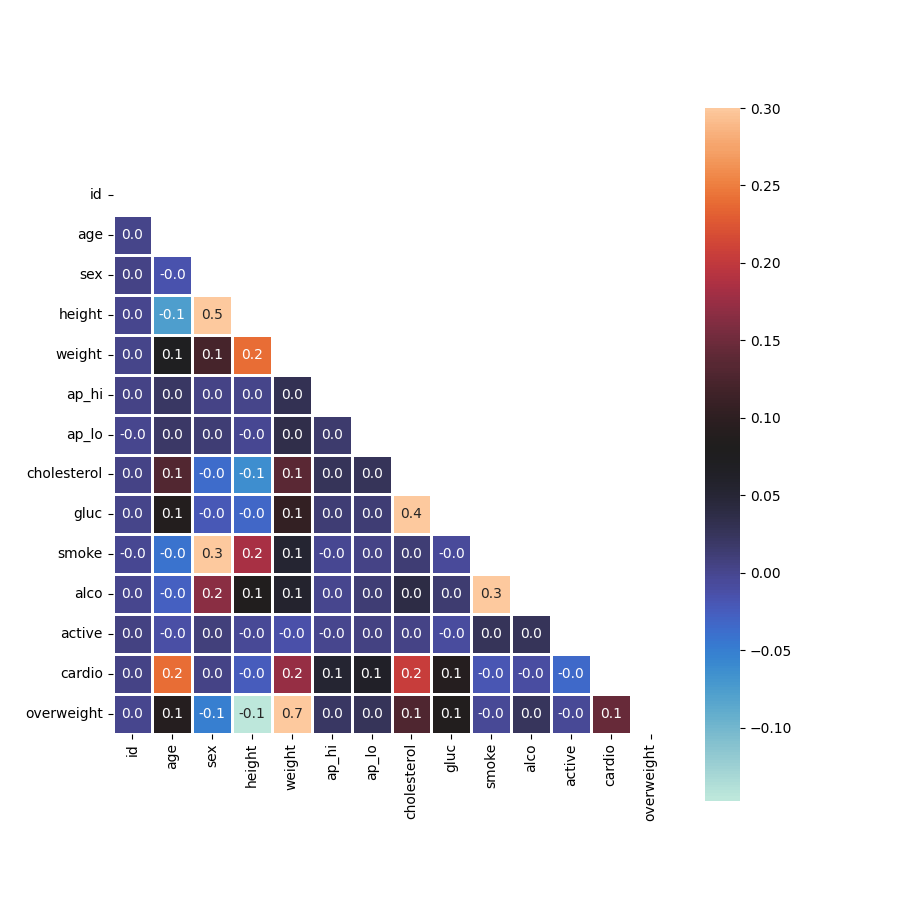
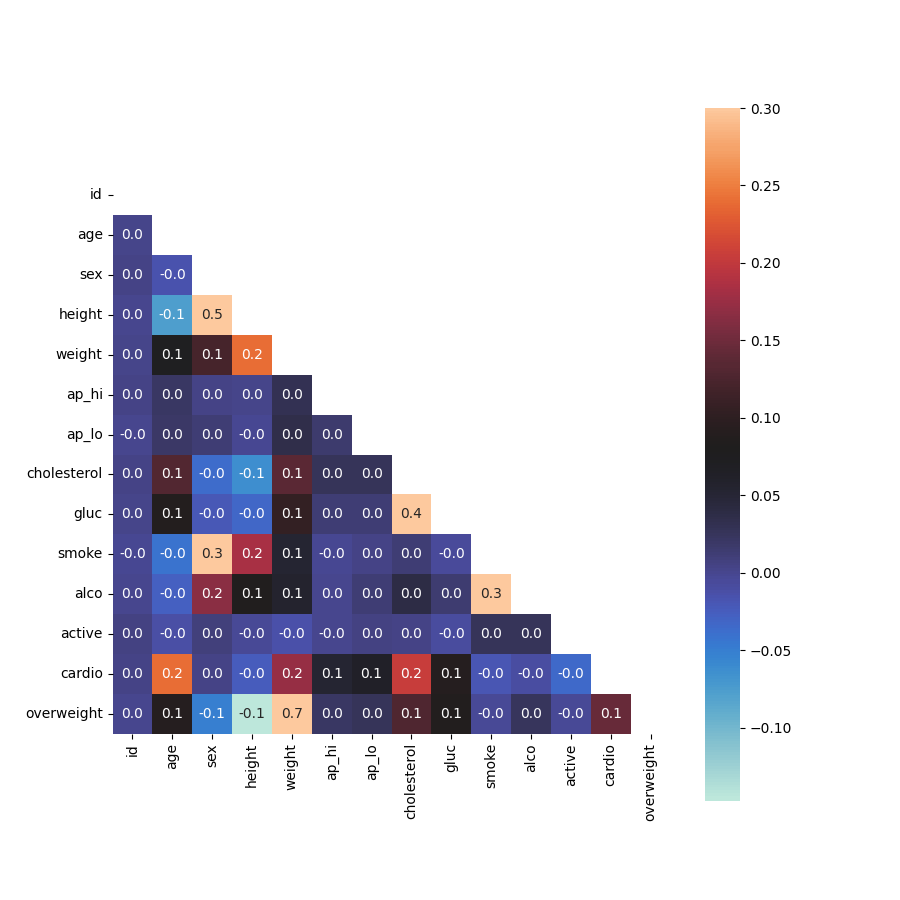
done

Changed region(s): [[0.1244, 0.28, 0.6844, 0.8089]]

diff --git a/medical_data_visualizer.py b/medical_data_visualizer.py
@@ -21,6 +21,7 @@ def draw_cat_plot():
     df_cat = df_cat.groupby(['cardio', 'variable', 'value']).size().reset_index(name='total')
     
     # 7
+    fig, ax = plt.subplots(sharex=True, sharey=True)
     g = sns.catplot(data=df_cat, kind='bar', x='variable', y='total', hue='value', col='cardio')
     
     # 8
@@ -28,8 +29,8 @@ def draw_cat_plot():
 
     # 9
     fig.savefig('catplot.png')
+    print(type(fig.axes))
     return fig
-draw_cat_plot()
 
 # 10
 def draw_heat_map():
@@ -53,10 +54,9 @@ def draw_heat_map():
     fig, ax = plt.subplots(figsize=(9,9))
 
     # 15
-    sns.heatmap(corr, linewidths=2, mask=mask, vmax=.3, center=0.08,square=True, annot=True, fmt='.1f')
+    sns.heatmap(corr, mask=mask, vmax=.3, center=0.08,square=True, annot=True, fmt='.1f')
 
 
     # 16
     fig.savefig('heatmap.png')
     return fig
-draw_heat_map()
